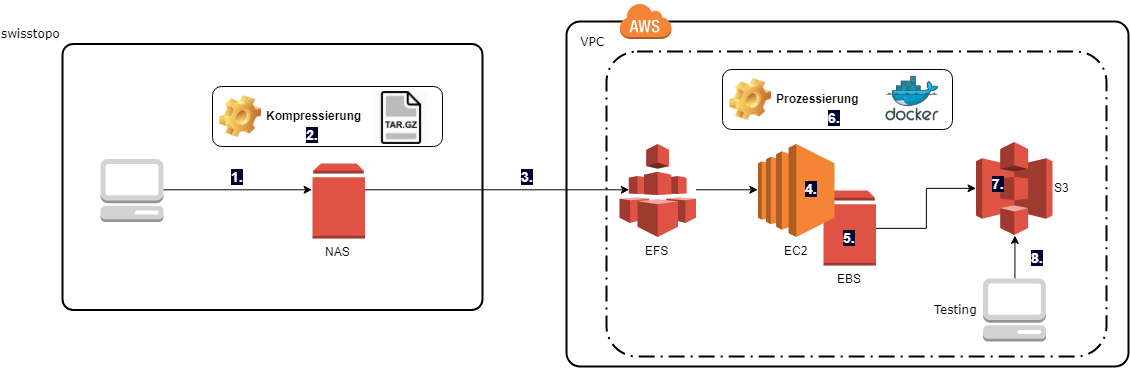
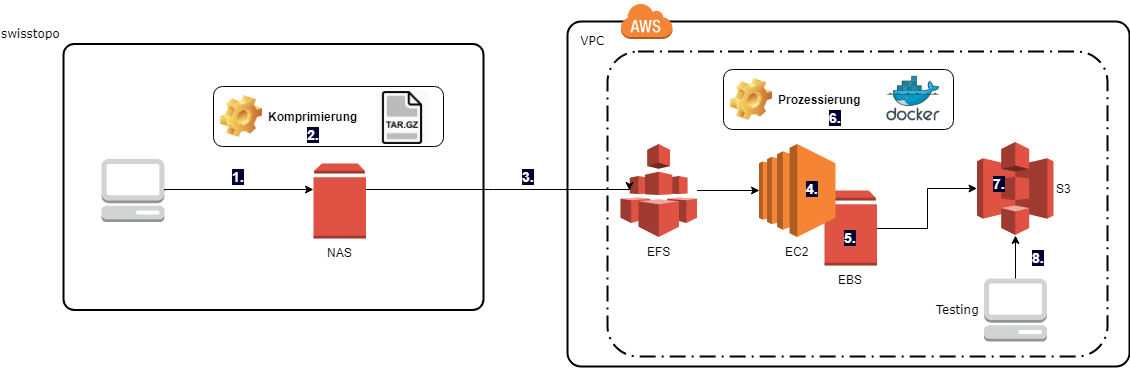
Komprimierung anstatt Kompressierung im Bild

diff --git a/latex/semesterarbeit/content/erkenntnisse.tex b/latex/semesterarbeit/content/erkenntnisse.tex
@@ -1,6 +1,6 @@
 \section{Evaluation}
 \subsection{Erfahrungen}
-Die Anregungen aus dem Studium\footnote{CAS in Cloud Computing an der BFH Bern: Bsp. die Vorlesungen Architektur, IaaS, PaaS, Docker und Kubernetes.} und das günstige Angebot von AWS haben den Autor motiviert, die komplette Infrastruktur für den Prototypen in einem eigenen AWS Account aufzubauen. Da die Infrastruktur und die Verarbeitung deklarativ festgehalten wurden, kann ein Grossteil dieses Codes auch im Account des Betriebes ohne grosse Anpassungen wiederverwendet werden.
+Die Anregungen aus dem Studium\footnote{CAS in Cloud Computing an der BFH Bern: Beispielsweise die Vorlesungen Architektur, IaaS, PaaS, Docker und Kubernetes.} und das günstige Angebot von AWS haben den Autor motiviert, die komplette Infrastruktur für den Prototypen in einem eigenen AWS Account aufzubauen. Da die Infrastruktur und die Verarbeitung deklarativ festgehalten wurden, kann ein Grossteil dieses Codes auch im Account des Betriebes ohne grosse Anpassungen wiederverwendet werden.
 
 Der Autor hat sich bewusst dazu entschieden, die Arbeit möglichst selbständig zu realisieren und hat die Ressourcen im Team und in der IT-Abteilung der swisstopo so wenig wie möglich genutzt. Es war für den Autor schon nur eine Hilfe, zu wissen, dass die Möglichkeit einer Unterstützung da war. Dies führte dazu, dass der Autor Momente der Ratlosigkeit erleben musste\ref{har:perplexity}. Was nicht weiter schlimm war, da \textit{"Perplexity is the beginning of knowledge"} \autocite[33]{CloudNativ:1}.
 
@@ -51,7 +51,7 @@ Der Test, der die Rohdaten auf well-formed XML testet, hilft Fehler, vor dem lan
 \section{Ausblick}
 Bald steht das nächste 3D Update vor der Tür. Bei dieser Gelegenheit könnte der Automatisierungsteil dieser Semesterarbeit übernommen werden. Da es sich dabei um ein Ansible Playbook in einer deklarativen Sprache handelt, sind die einzelnen Verarbeitungsschritte auch gleich dokumentiert. Anpassungen sind einfach zu machen. Falls diese Nachführung auf einer herkömmlichen On-Demand EC2 Instanz gemacht werden müsste, könnte das Skript dennoch verwendet werden.
 
-Mittelfristig wäre es schon nur aus Gründen des Kostensparens interessant, wenn rechenintensive Geodatenverarbeitungen auf Spot Instanzen laufen könnten. Hier nochmals: Relative Einsparungen von mehr als 70\% sind möglich; was sich mit der Zeit auch in absoluten Kosteneinsparungen (\$) sehen lassen würde.\\ Um den Koordinationsaufwand mit der IT zu verringern, könnte die Person, die eine Spot Instanz braucht, mit den nötigen Rechten versehen werden: Bsp. könnte sie, wie bei einem Load-Balancer, die Anzahl Instanzen der Spot Flotte von 0 auf 1 ändern dürfen, um nach getaner Arbeit die Anzahl Instanzen wieder auf 0 zu setzen.
+Mittelfristig wäre es schon nur aus Gründen des Kostensparens interessant, wenn rechenintensive Geodatenverarbeitungen auf Spot Instanzen laufen könnten. Hier nochmals: Relative Einsparungen von mehr als 70\% sind möglich; was sich mit der Zeit auch in absoluten Kosteneinsparungen (\$) sehen lassen würde.\\ Um den Koordinationsaufwand mit der IT zu verringern, könnte die Person, die eine Spot Instanz braucht, mit den nötigen Rechten versehen werden: Beispielsweise könnte sie, wie bei einem Load-Balancer, die Anzahl Instanzen der Spot Flotte von 0 auf 1 ändern dürfen, um nach getaner Arbeit die Anzahl Instanzen wieder auf 0 zu setzen.
 
 Sobald die swisstopo über eine Hybrid Cloud verfügt, könnte die Topografie neue Daten direkt auf das EFS schreiben. Dieser Event könnte getriggert werden, um eine Spot Instanz für die 3D Geodatenverarbeitung zu starten. Jeweils ca. 18 Stunden später wären die Daten im Web und die Topografie könnte diese auf der Testumgebung einsehen (Abb. \ref{fig:ist_zustand}, Nr. 7). Diesen Vorgang könnte die Topografie solange wiederholen, bis sie mit dem Resultat zufrieden ist.
 

diff --git a/latex/semesterarbeit/content/usecase.tex b/latex/semesterarbeit/content/usecase.tex
@@ -24,7 +24,7 @@ Integration wird AWS Codebuild/Pipeline zum Einsatz kommen.
 \newpage
 
 \subsection{Exkurs 3D Daten}
-Die swisstopo erfasst und aktualisiert Daten mit einem räumlichen Bezug. Diese Geodaten sind die Basis für die Ableitung in eine Vielzahl von Produkten, wie die Landeskarten 1:25'000. Nebst Karten gibt es unter anderem die Produktpalette der Landschaftsmodelle. Diese geben die Objekte der Landschaft im flexiblen Vektorformat wieder. Sie bestehen aus thematischen Ebenen (Bsp. Gebäude). Jede Ebene umfasst georeferenzierte Punkt-, Linien-, Flächen- oder 3D Objekte. Jedes Objekt enthält Attribute und Beziehungen \cite{toposhop2010}.
+Die swisstopo erfasst und aktualisiert Daten mit einem räumlichen Bezug. Diese Geodaten sind die Basis für die Ableitung in eine Vielzahl von Produkten, wie die Landeskarten 1:25'000. Nebst Karten gibt es unter anderem die Produktpalette der Landschaftsmodelle. Diese geben die Objekte der Landschaft im flexiblen Vektorformat wieder. Sie bestehen aus thematischen Ebenen (Beispielsweise Gebäude). Jede Ebene umfasst georeferenzierte Punkt-, Linien-, Flächen- oder 3D Objekte. Jedes Objekt enthält Attribute und Beziehungen \cite{toposhop2010}.
 
 Zu den Landschaftsmodellen gehören Produkte wie swissTLM3D und swissBuildings3D. Im Viewer wird eine Auswahl von Themen aus eben diesen Landschaftsmodellen dargestellt: Zurzeit Gebäude, Bäume, Seilbahnen, Namen und das Terrain. Vor wenigen Jahren wurden diese 3D Daten mit einem grossen Effort medienwirksam publiziert.
 
@@ -38,7 +38,7 @@ Zu den Landschaftsmodellen gehören Produkte wie swissTLM3D und swissBuildings3D
 
 Seit der Erstpublikation ist inzwischen etwas Zeit vergangen. Als die ersten Aktualisierungen der Daten anstanden, wurde den Beteiligten bewusst, dass sich diese nicht einfach so \emph{auf Knopfdruck} realisieren lässt: Seit der Erstpublikation hat es personelle Wechsel gegeben und bezüglich Dokumentation und Automatisierungsgrad wurden Lücken identifiziert.
 
-Es gibt immer gute Gründe für \emph{technische Schulden}, wie in diesem Fall für positive medienwirksame Reaktionen\footnote{Wie Bsp. auf watson.ch oder Twitter \cite{watson2018}.}. Früher oder später müssen diese abgebaut werden, weil es einen direkten Einfluss auf die Wartbarkeit des Produktes hat \cite{technischeschulden2010}.
+Es gibt immer gute Gründe für \emph{technische Schulden}, wie in diesem Fall für positive medienwirksame Reaktionen\footnote{Wie beispielsweise auf watson.ch oder Twitter \cite{watson2018}.}. Früher oder später müssen diese abgebaut werden, weil es einen direkten Einfluss auf die Wartbarkeit des Produktes hat \cite{technischeschulden2010}.
 
 \section{Use Case}
 \subsection{Problemstellung}
